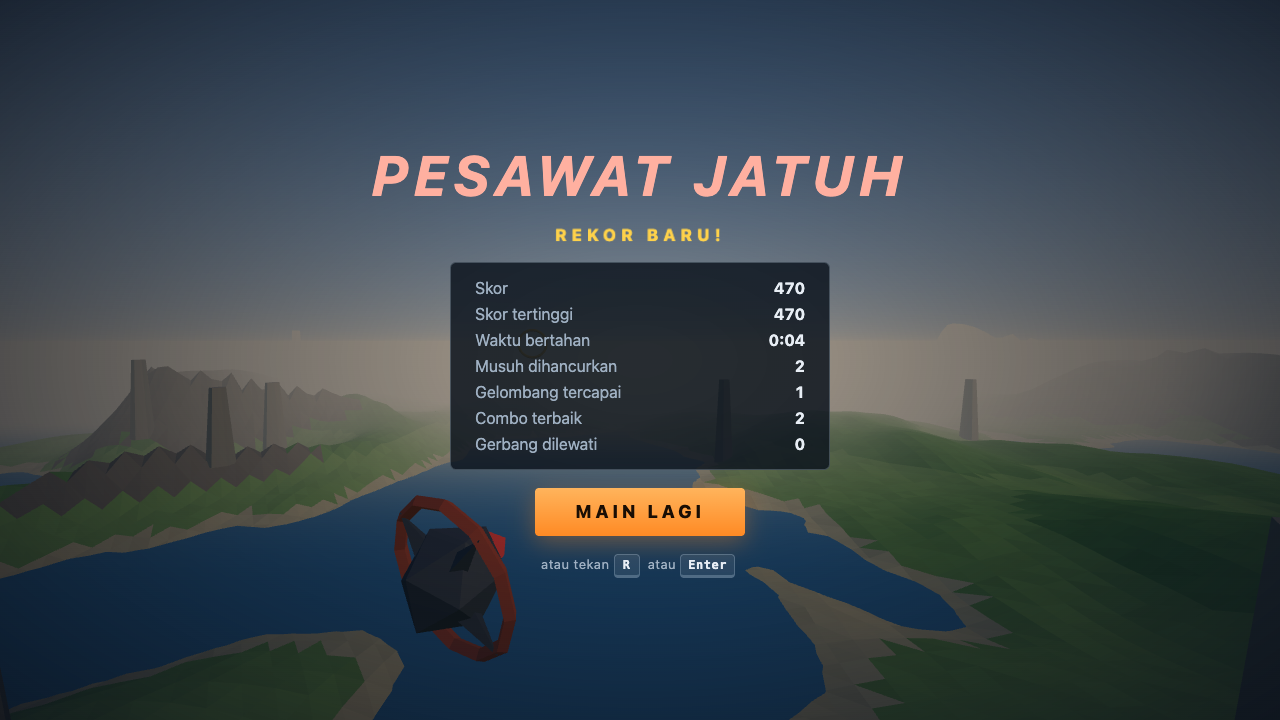
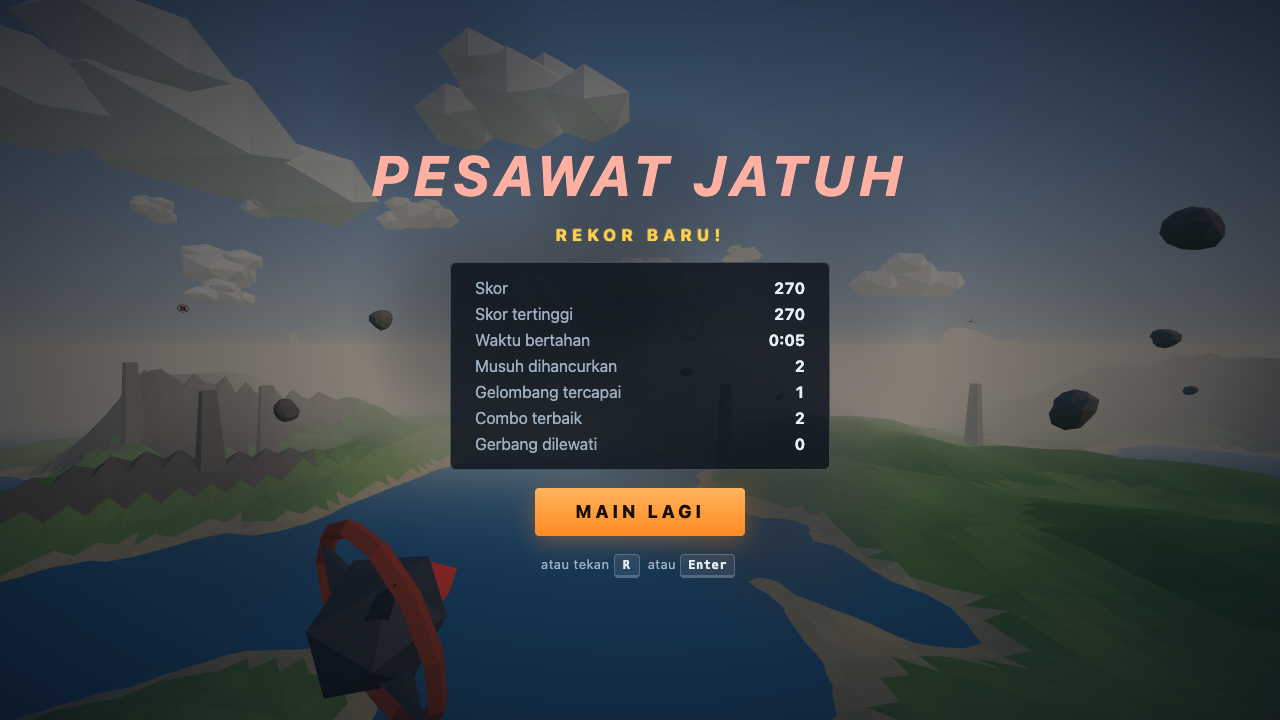
fix: J7 verifikasi akhir, suite uji disesuaikan dengan state baru dan sistem nyawa, semua 23 uji lolos
Uji soak kini memakai pemanasan sebelum baseline karena program shader dikompilasi saat
jenis material pertama kali dirender (plateau, bukan kebocoran).

diff --git a/index.html b/index.html
@@ -4016,6 +4016,7 @@ window.__game = {
         textures: m.textures,
         programs: renderer.info.programs ? renderer.info.programs.length : 0,
         listeners: Object.keys(Events.map).reduce((n, k) => n + Events.map[k].length, 0),
+        listenerMap: Object.fromEntries(Object.keys(Events.map).map((k) => [k, Events.map[k].length])),
         heapMB: performance.memory ? round2(performance.memory.usedJSHeapSize / 1048576) : null,
       };
     },
